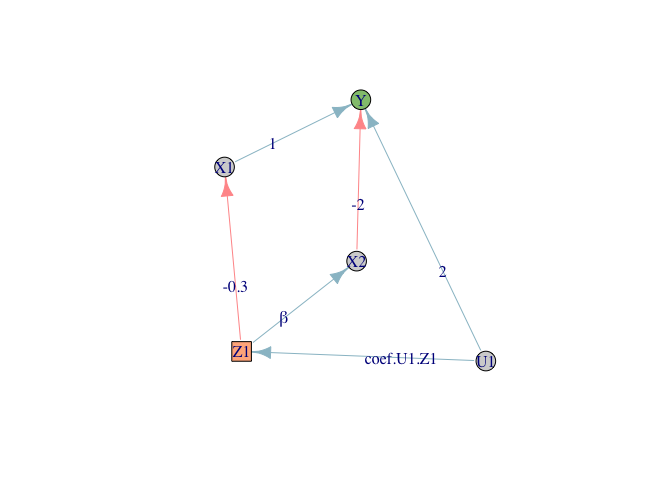
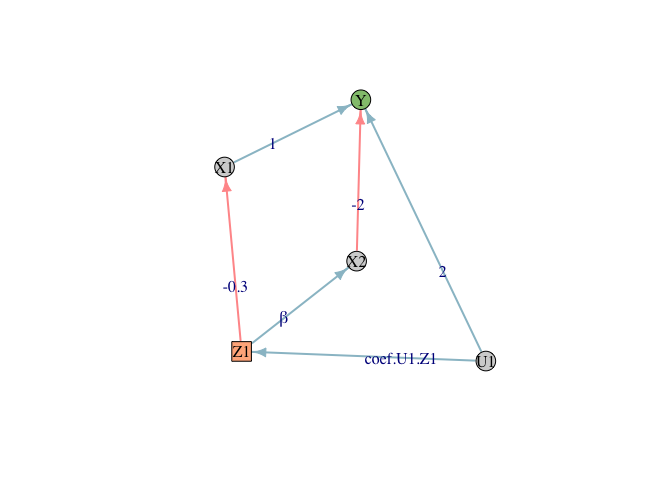
upadeted README

diff --git a/README.md b/README.md
@@ -52,8 +52,7 @@ if(!require("igraph")) install.packages("igraph")
 if(!require("base64enc")) install.packages("base64enc")
 
 # Run the app directly from GitHub using shiny::runGitHub
-shiny::runGitHub("your_github_username/your_repo_name", subdir = "/")
-# Example: shiny::runGitHub("johndoe/DAGGR-App")
+shiny::runGitHub("moritz-hanke/DAGGR", subdir = "/")
 ```
 
 Alternatively, clone the repository and run the app.R file:
@@ -141,6 +140,8 @@ The middle panel provides two key outputs:
   defines how each variable is computed. This code is topologically
   sorted, meaning a variable’s dependencies are defined before it is
   used.
+- \*igraph object\*\*: the visNetwork is transformed to an igraph object
+  that can be further processed.
 - **Node Attributes**: A table summarizing all nodes and their
   properties.
 
@@ -166,8 +167,8 @@ Y <- 3 + 1*X1 + -2*X2 + 2*U1 + rnorm(n, mean=mean.Y, sd=sd.Y)
 
 ### 8. Generating random values based
 
-Using the saved `.rds`obejct we can use this to genrate random values
-based on the expressions.
+Using the saved `.rds`obejct we can generate random values based on the
+saved expressions.
 
 ``` r
 library(igraph)
@@ -204,7 +205,13 @@ print(dag_expressions)
 
 ``` r
 # plot the generared DAG as an igraph object
-plot(dag_data$igraphNetwork, layout = cbind(dag_data$nodes$x, dag_data$nodes$y))
+plot(dag_data$igraphNetwork, 
+     layout = cbind(dag_data$nodes$x, dag_data$nodes$y),
+     vertex.label.color = "black",
+     vertex.label.cex = 1,
+     edge.arrow.size = 0.75,
+     edge.arrow.width = 1,
+     edge.width = 2)
 ```
 
 ![](README_files/figure-gfm/unnamed-chunk-1-1.png)<!-- -->
